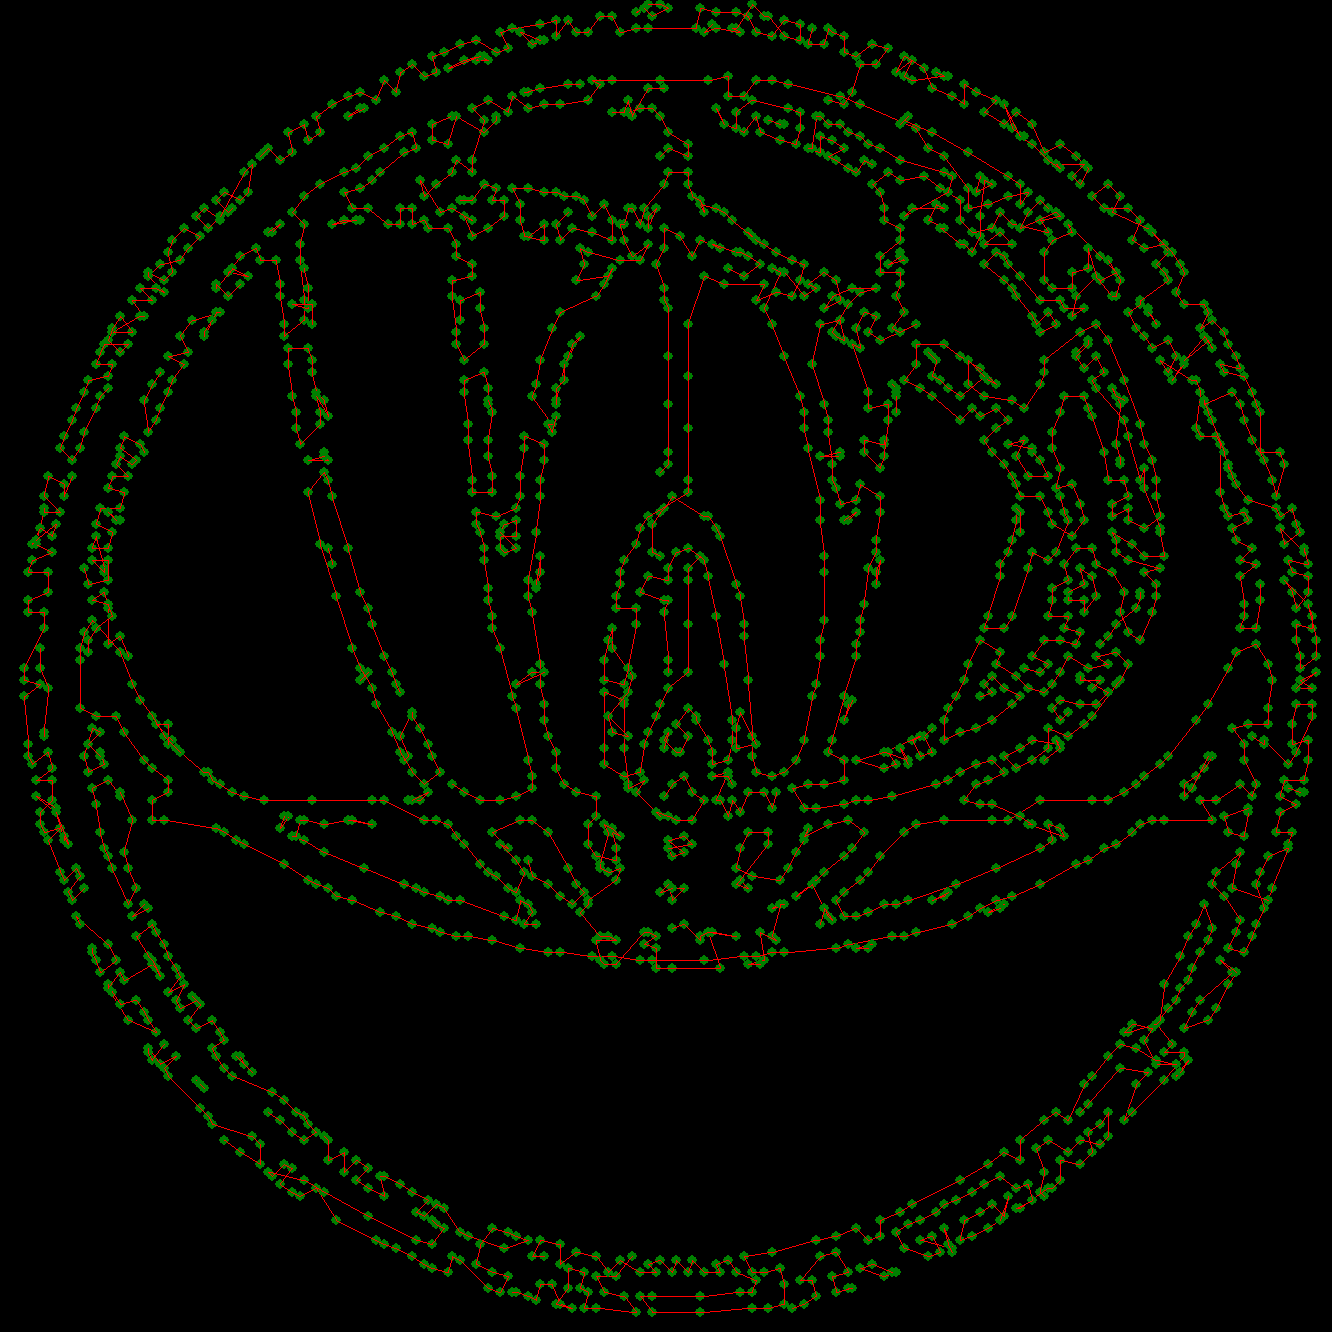
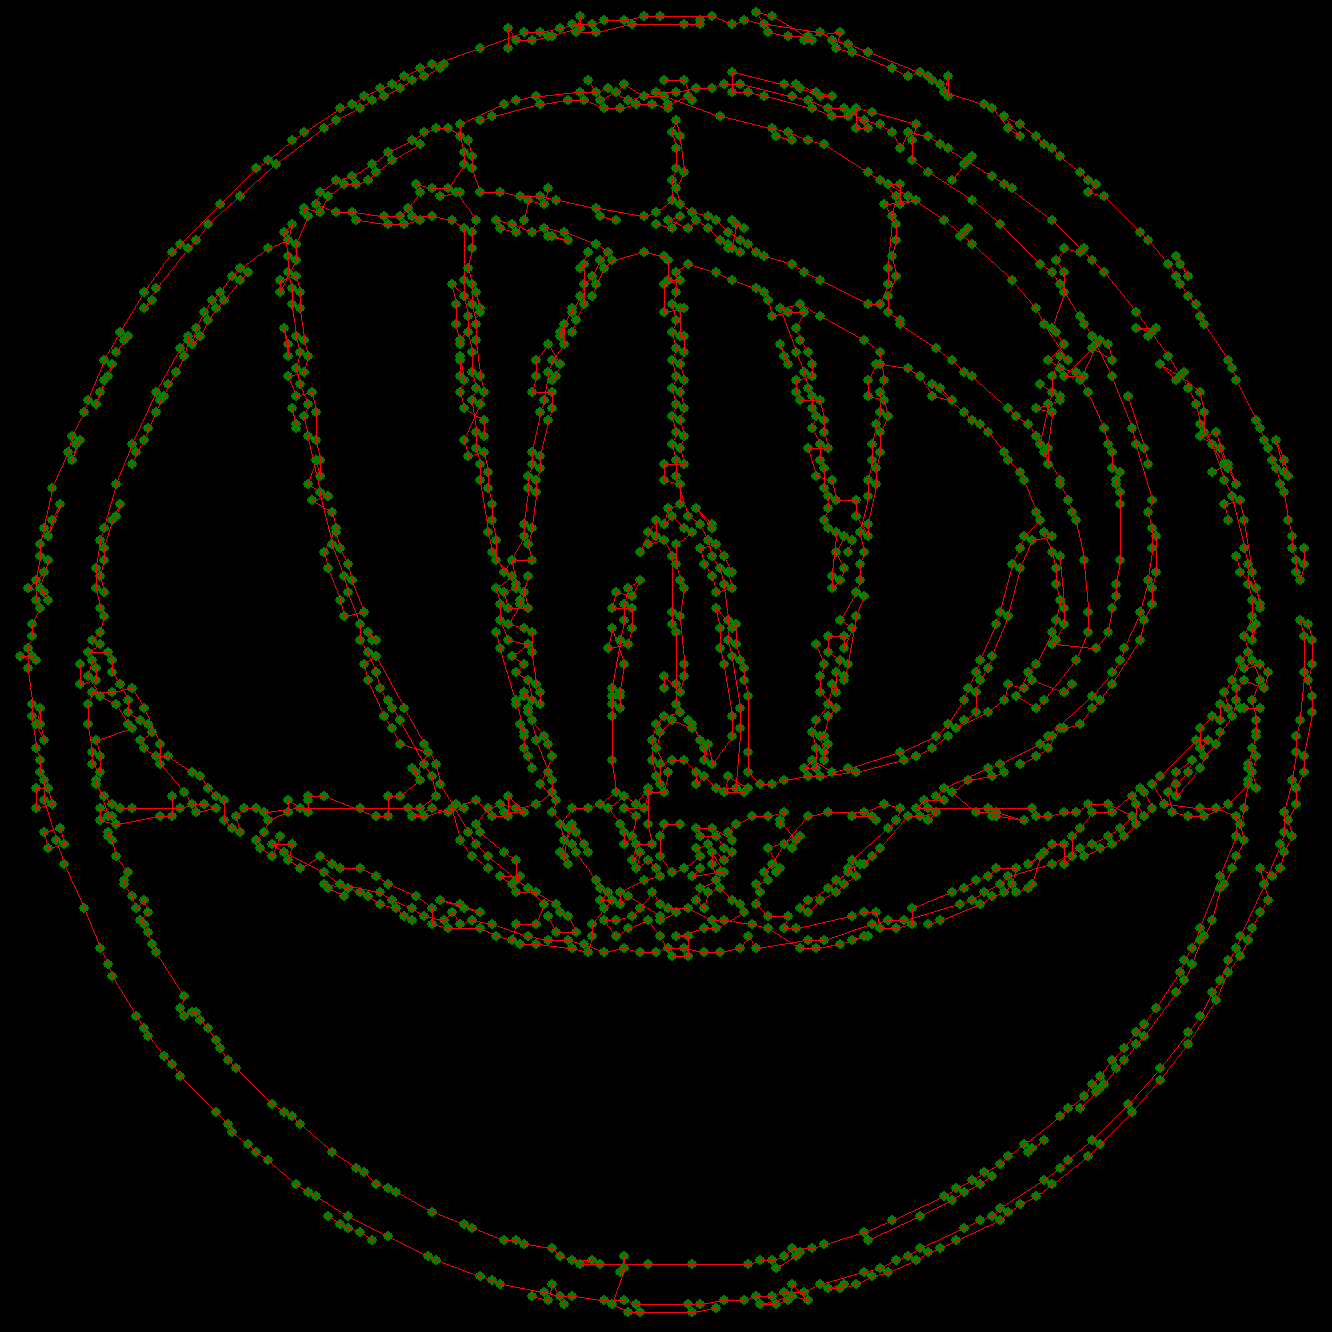
added hpgl skeleton

Changed region(s): [[0.0, 0.0, 1.0, 1.0]]

diff --git a/lib_paths.py b/lib_paths.py
@@ -18,8 +18,10 @@ def optimizepaths(paths):
             angle1 = math.atan2(position[1]-newpath[-1][1],position[0]-newpath[-1][0])
             angle2 = math.atan2(newpath[-1][1]-newpath[-2][1],newpath[-1][0]-newpath[-2][0])
             lastangle = abs(angle1-angle2)*float(360)/(2*math.pi)
-   
-         if float(lastdistance)*lastangle > 100:
+
+         # removal should not only be based on the angle to the last point but on the angle to the next point, too (e.g. keep sharp edges!)
+         if lastdistance > 10 or lastangle > 5:
+#         if float(lastdistance)*lastangle > 100:
             newpath.append(position)
       newpaths.append(newpath)
    return newpaths
@@ -30,7 +32,7 @@ def pathcombiner(paths_in):
    '''for all given paths, combine them if possible to reduce number and increase length'''
    # now we could check each start/end of every path and combine the two paths if they are closer together than a threshold
    # if start/end of same path are together closer than threshold but not equal, add first point to end to close the path
-
+   # for now it takes the FIRST candidate that fits, not the best (=nearest) one!
 
    paths = []
    for p in paths_in:
@@ -60,11 +62,11 @@ def pathcombiner(paths_in):
                if point1[0] == point2[0]: # same path
                   if point1[1] == 0 and point2[1] == -1: # but start/end selected = close loop
                      paths[point1[0]].append(paths[point2[0]][0])
-                     print "loop closed"
+                     print "loop closed start-end"
                      redo = True
                   if point1[1] == -1 and point2[1] == 0: # but end/start selected = close loop
                      paths[point2[0]].append(paths[point1[0]][0])
-                     print "loop closed"
+                     print "loop closed end-start"
                      redo = True
 
                else: # different paths
@@ -102,6 +104,8 @@ def pathcombiner(paths_in):
             if len(path)>1:
                newpaths.append(path)
 
+         print "reduced %i paths to %i paths"%(len(paths_in),len(newpaths))
+	
          return newpaths
          
 
@@ -147,7 +151,7 @@ def edgewalk(img):
             path.append(position)
          pygame.draw.circle(img_clone, (0,0,0), position, radius, 0)
 
-      if len(path)>4:
+      if len(path)>2:
          paths.append(path)
 
 

diff --git a/lib_hpgl.py b/lib_hpgl.py
@@ -1,0 +1,21 @@
+#!/usr/bin/env python
+
+def hpgl_frompaths(paths):
+   '''takes an array of  paths and creates HPGL code from it. coordinates are used 1:1'''
+   commandlist = ["PU"]
+   return commandlist
+
+
+def hpgl_bestpen(width, color):
+   '''finds the best fitting pen from the pen specification file and returns its values'''
+   width, color = 0,0
+   return width, color
+
+def hpgl_usepen(width, color):
+   '''select best fitting pen to specified value'''
+   commandlist = ["PU"]
+   return commandlist
+
+if __name__ == "__main__": # test
+   print "testing"
+   print "NOT IMPLEMENTED"
